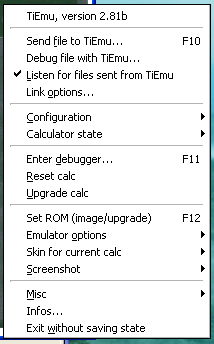
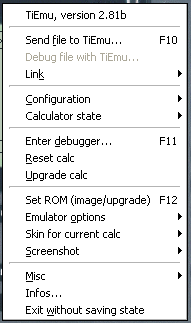
Updated html documentation with DnD features.
git-svn-id: http://svn.tilp.info/repos/tiemu/tiemu/trunk@2319 4f589446-7ac1-0310-82c7-a055b08196ef

diff --git a/help/chapter06.html b/help/chapter06.html
@@ -45,16 +45,17 @@ On iPAQ, you have to touch-point on the LCD region.<br>
 The menu
 is organized as follow :<br>
 <div style="text-align: center;"><img alt="" src="popup_menu.png"
- style="width: 214px; height: 344px;"><br>
+ style="width: 191px; height: 323px;"><br>
 </div>
 <br>
 <h2>6.1 Link </h2>
 The <span style="font-style: italic;">Send file to TiEmu</span> item
 will let you choose a file to load into the emulator while being on the
 HOME screen. You can choose
-one or several files at a time.<br>
+one or several files at a time. You can drag and drop them from
+anywhere to the&nbsp; TiEmu main windows, too.<br>
 <br>
-[+gdb] The <span style="font-style: italic;">Debug file with TiEmu</span>
+The <span style="font-style: italic;">Debug file with TiEmu</span>
 item
 will let you choose a file to debug using the emulator: First, the file
 (which should be an uncompressed TIGCC program compiled with debugging
@@ -70,24 +71,25 @@ in the Insight Source Window to get to the beginning of your main
 function. You can choose only one file at a time; any data files
 required by the program need to be sent separately using
 <span style="font-style: italic;">Send file to TiEmu</span>.<br>
-OR<br>
-[-gdb] The <span style="font-style: italic;">Quick send...</span> item
+<br>
+The <span style="font-style: italic;">Settings</span> item opens a
+dialog box. This is a large topic which is covered elsewhere. See the
+corresponding
+section...<br>
+<br>
+The <span style="font-style: italic;">Quick send...</span> item
 is a convenient feature when testing program being under development.
 It allows to specify a file to send whenever you press F10 or click the
 <span style="font-style: italic;">Send file to TiEmu</span> item.<br>
 When enabled, the dialog box displayed by <span
  style="font-style: italic;">Send file</span> is completely by-passed.<br>
 <br>
-The <span style="font-style: italic;">Receive file</span> item lets
+The <span style="font-style: italic;">Listen for files</span> item
+lets
 you
 enable (checked) or disable (unchecked) the receiving of variables
 from TiEmu. You should uncheck it if your program accesses the linkport
 for sound.<br>
-<br>
-The <span style="font-style: italic;">Link options</span> item opens a
-dialog box. This is a large topic which is covered elsewhere. See the
-corresponding
-section...<br>
 <h2>6.2 Configuration and State</h2>
 You can save or load a particular configuration. A configuration
 contains the current parameters of the emulator (emulator image to use,
@@ -126,6 +128,9 @@ upgrade and load it after image at startup.<br>
 choose an existing image from a list. If you want to add an image,
 click the <span style="font-style: italic;">Import</span> button to
 convert a ROM dump or a FLASH upgrade into an image. <br>
+You can drag and drop a ROM dump or FLASH upgrade onto the TiEm main
+window. The file will be automatically imported and you will get the
+box below.<br>
 Note: TiEmu scans the <span style="font-style: italic;">images</span>
 folder whenever you run this box.<br>
 <br>
@@ -167,7 +172,9 @@ the keyboard for TI keys:<br>
 </div>
 <br>
 The second option makes TiEmu fall back on the built-in skin. <br>
-The third option lets you choose a skin of your own. It must be a TiEmu
+The third option lets you choose a skin of your own. You can drag and
+drop a skin file to the&nbsp; TiEmu main windows, too.<br>
+Note: the skin must be a TiEmu
 compatible skin (see the Skin section) else it will be rejected.<br>
 <h2>6.5 Infos</h2>
 <span style="font-style: italic;">Misc</span>: gives you access to this

diff --git a/help/chapter10.html b/help/chapter10.html
@@ -60,7 +60,7 @@ calcs: TI82..V200),<br>
 - load any image format (not restricted to JPEG). This feature depends
 on the pixbuf loaders provided by the GTK+ libraries.<br>
 <br>
-Note: The TiEmu v2.0 skin format is documented. See the <span
+Note: the TiEmu v2.0 skin format is documented. See the <span
  style="font-style: italic;">docs</span> folder of the source archive.<br>
 <br>
 </font>

diff --git a/help/Manual_en.html b/help/Manual_en.html
@@ -109,7 +109,7 @@ release (TiEmu v1.80l).</font></td>
       </td>
       <td style="vertical-align: top;">1.3<br>
       </td>
-      <td style="vertical-align: top;">Link, link-log, quick-send
+      <td style="vertical-align: top;">Link, link-log, quick-send, DnD
 and more.<br>
       </td>
     </tr>
